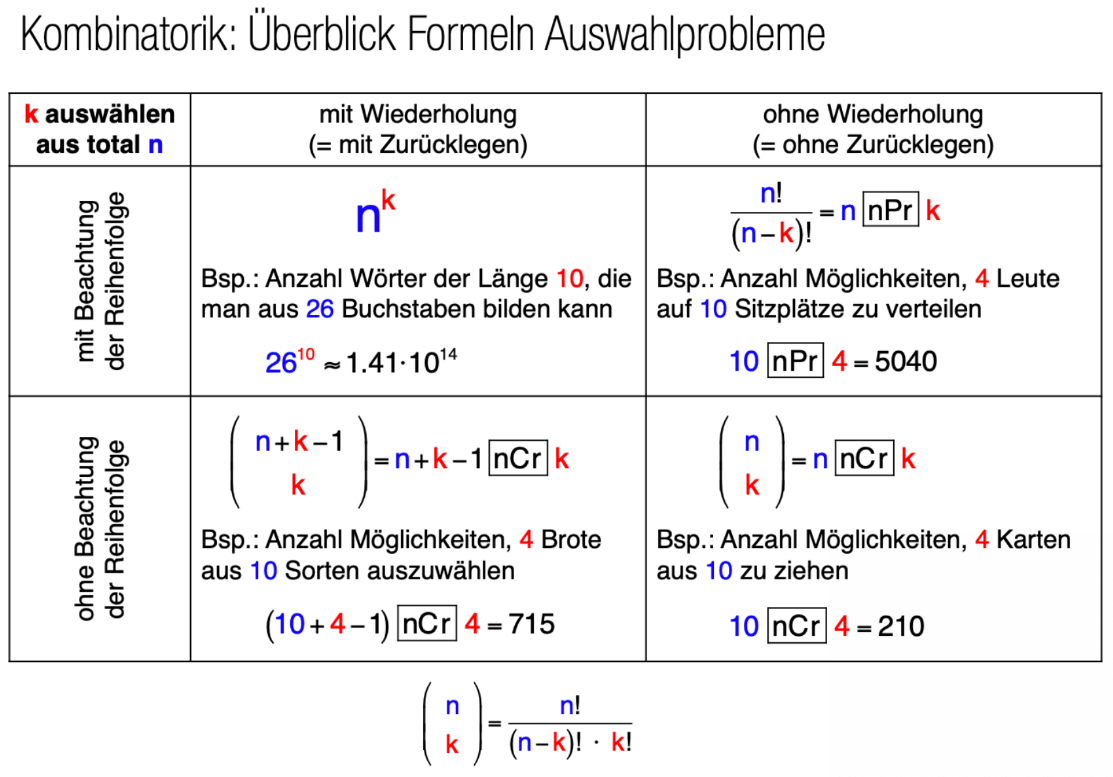
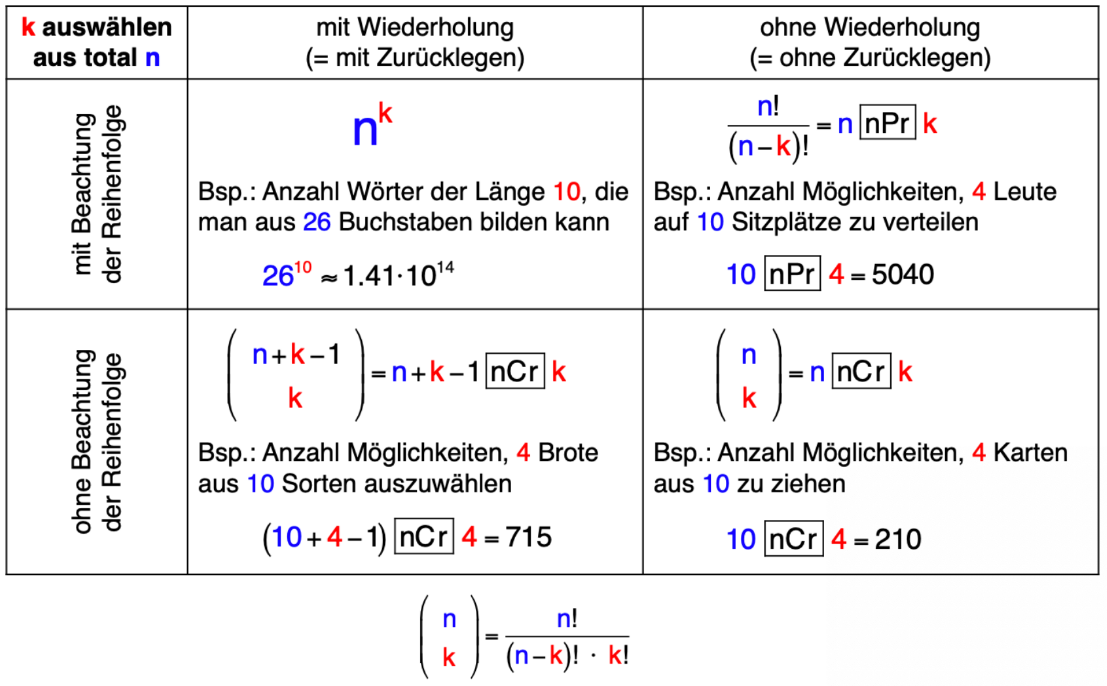
Neue Bilder etc

Changed region(s): [[0.0, 0.0, 1.0, 0.8571], [0.3686, 0.8878, 0.5836, 0.9796], [0.3686, 0.8878, 0.43, 0.9184]]

diff --git a/arbeitsblaetter/formelsammlung/FormelsammlungGESO.tex b/arbeitsblaetter/formelsammlung/FormelsammlungGESO.tex
@@ -8,7 +8,7 @@
 
 %%\usepackage{amssymb} %% für \blacktriangleright
 \usepackage{makecell}
-\renewcommand{\metaHeaderLine}{Formelsammlung GESO (v 0.0.7 2021-06-14 fp)}
+\renewcommand{\metaHeaderLine}{Formelsammlung GESO (v 0.0.8 2021-06-14 fp)}
 \renewcommand{\arbeitsblattTitel}{Formelsammlung}
 
 \titlespacing*{\section}{0pt}{0.1\baselineskip}{0.1\baselineskip}
@@ -58,7 +58,7 @@ Beispiel:
 $$\frac{x}{a-b} +  \frac{y}{b-a} = \frac{x}{a-b} + \frac{-y}{a-b} = \frac{x-y}{a-b}$$
 
 %% Forced column break
-\forceCB
+%%\forceCB
 \subsection*{Summenzeichen}
 $$\sum_{k=1}^n{T(k)} = T(1) + T(2) + ... + T(n)$$
 Beispiel
@@ -94,7 +94,7 @@ Die Zählung der signifikanten Stellen einer Zahl beginnt (von links) mit der er
 Bsp.: 30.896 auf \textbf{vier} sig. Stellen = 30.90\\
 (4. Ziffer stehen lassen, auch wenn = 0)
 
-\forceCB{}%%
+%%\forceCB{}%%
 \subsection*{Wissenschaftliche Notation}
 Für große, aber auch für Zahlen sehr nahe an 0, wird die wissenschaftliche Schreibweise vorgezogen. Dabei steht vor dem Dezimalpunkt immer genau eine Ziffer:
 
@@ -103,6 +103,9 @@ Zahl  & & wissenschaftl. & & TR: \tiprobutton{EE} \\
 1400  &=& $1.4\cdot{}10^3$ &=& 1.4E3\\
 0.004 &=& $4\cdot{}10^{-3}$ &=&4E-3\\
 \end{tabular}
+
+
+\forceCB
 
 \hrulefill
 
@@ -171,18 +174,18 @@ $a^0=1,$ & $a^{-r} = \frac1{a^r},$ & $\left(\frac{a}b\right)^{-r} = \left(\frac{
  \end{tabular}
 \end{gesetz*}
 
-\begin{rezept*}{«Kielholen»}{}{}
+\begin{rezept*}{}{}{}
 Exponenten vertauschen ihr Vorzeichen beim Übertreten des Bruchstrichs:
 $$\frac{a^{-3}b^2}{c^5d^{-6}} = \frac{b^2d^6}{a^3c^5}$$
 \end{rezept*}
 
-\forceCB{}
 \subsection*{$n$-te Wurzel}
 $\sqrt[n]{a} := \left(a\right)^\frac1n$
 \begin{gesetz*}{}{}
 $$a^{\frac{r}s} = \sqrt[s]{a^r} = \left(\sqrt[s]a\right)^r$$
 \end{gesetz*}
 
+\forceCB
 \hrulefill
 \section*{Logarithmen}
 
@@ -290,33 +293,12 @@ $D>0$: Zwei Lösungen;
 $D=0$: Eine Lösung;
 $D<0$: keine Lösung
 
-Wie vorgehen?
 
-\begin{tabular}{|p{44mm}|p{53mm}|p{64mm}|}
-	\hline
-	Spezialfall $b=0$               & $5x^2 = 3$                   & Durch 5 dividieren, dann positive und negative Wurzel ziehen.\\
-	\hline
-	Spezialfall $c=0$               & $3x^2 = 5x$                   & Fallunterscheidung $x$ = 0 und $x \ne 0$\\
-	\hline
-	Bereits faktorisiert       & $(x-4.6 + b)\cdot{}(x+a) = 0$ & Lösungen hier $x_1=4.6-b$ und $x_2 = -a$\\
-	\hline
-	Einfache Zahlen            & $x^2 -2x + 1= 0$           & $a$-$b$-$c$--Formel (Mitternachtsformel) oder faktorisieren $x^2-2x+1=(x-1)^2$ und danach jeden einzelnen Faktor $=0$ setzen.\\
-	\hline
-	Komplizierte Zahlen        & $7.3x^2 - 8x - 3.4 = 0$       & Taschenrechner \tiprobutton{2nd}\tiprobutton{cos_poly-solv}             \\
-	\hline
-	Variable (Parameter)       & $7.3x^2 - cx + 2.6=0$         & $a$-$b$-$c$-Formel (Mitternachtsformel) \\
-	\hline
-	Komplexe Terme im Quadrat  & $3(x-6)^2 - 17(x-6)  = 0$     & Substitution                            \\
-	\hline
-\end{tabular}
+Taschenrechner \tiprobutton{2nd}\tiprobutton{cos_poly-solv}\\
 
-%%\mmPapier{4}
+\hrulefill
 
-%%\newpage
-
-\newpage
 \begin{multicols}{2}
-
 
 \subsection*{Gleichungen mit Potenzen}
 \subsubsection*{Potenzgleichungen}
@@ -362,7 +344,8 @@ Verfahren
 \item Substitution
 \end{itemize}
 
-\hrulefill
+\forceCB
+
 \section*{Funktionen}
 
 Eine Funktion ordnet jeder Zahl aus einem Definitionsbereich
@@ -435,7 +418,7 @@ $y=ax+b$ einsetzen, um $b$ zu finden.
 \textbf{Variante 2}: Gleichungssystem nach $a$ und $b$ auf\/lösen:
 \gleichungZZ{y_A}{a\cdot{}x_A+b}{y_B}{a\cdot{}x_B + b}
 
-\hrulefill
+\forceCB
 
 \section*{Potenzfunktionen}
 Grundform:
@@ -502,6 +485,17 @@ Löse die Exponentialgleichung nach $t$ auf:\\
 $$30 = 3\cdot{}4^{\frac{t}{5}}$$
 \end{itemize}
 
+\subsection*{Basis $e$}
+\begin{gesetz*}{Basis $e$}{}
+
+$$c+b\cdot{}a^t = c + b\cdot{}e^{mx} \textrm{ mit } m = \ln(a)$$
+
+bzw.
+
+$$c+b\cdot{}a^\frac{t}\tau = c+b\cdot{}e^{mx} \textrm{ mit } m=\ln(a^\frac1\tau)$$
+
+\end{gesetz*}
+
 \subsection*{Halbwertszeit}
 $\frac12 \cdot{} b = f(t) = b\cdot{}a^{\frac{t}{\tau}}$
 $$t_{\frac12} = \tau\cdot{}\log_a\left(\frac12\right)$$
@@ -539,7 +533,7 @@ $b\cdot{}a^\frac{t}\tau$ = Sättigungsdefizit zur Zeit $t$
 \section*{Datenanalyse}
 
 \subsection*{Skalen}
-\bbwCenterGraphic{15cm}{allg/daan/img/Datentypen.png}
+\bbwCenterGraphic{15cm}{img/FlowchartSkalentyp.pdf}
 \vspace{5mm}
 
 
@@ -750,8 +744,8 @@ $${n+k-1 \choose k} \textrm { Möglichkeiten}$$
 
 
 
-\subsection*{Überblick}
-\bbwCenterGraphic{15cm}{img/Kombinatorik.png}
+\subsection*{Überblick Auswahlprobleme}
+\bbwCenterGraphic{17cm}{img/Kombinatorik.pdf}
 \hrulefill
 
 
